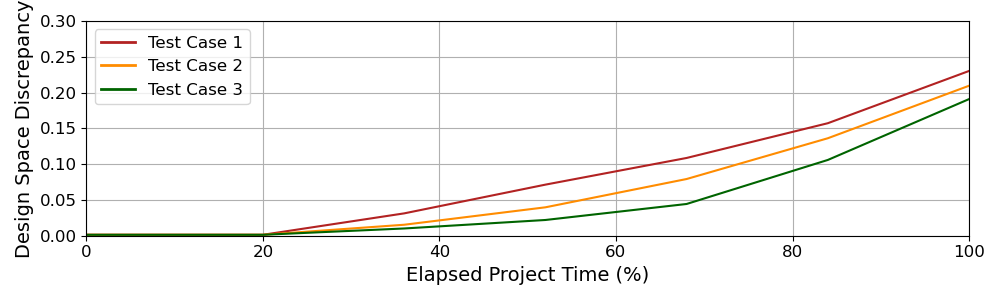
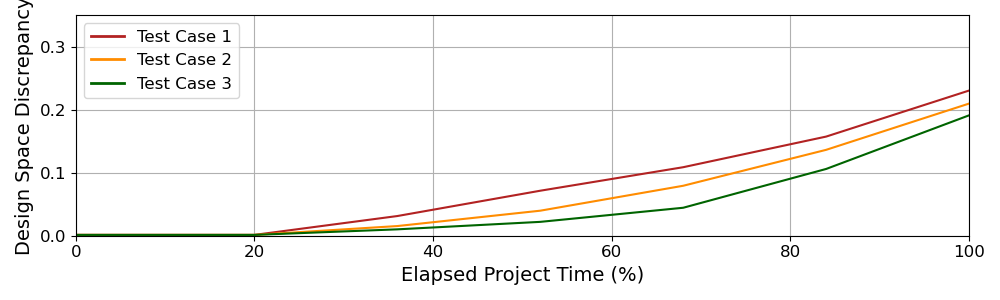
Final Results Gathered

diff --git a/Python Code/Simulation_Results_050_DTC1/plot_data.py b/Python Code/Simulation_Results_050_DTC1/plot_data.py
@@ -270,7 +270,7 @@ def plotDiversity(discipline_data, data_type, linestyle, colors, marker=None):
         
         # Set x- and y-axis limits
         plt.xlim([0, 100])
-        plt.ylim([0, 0.3])
+        plt.ylim([0, 0.35])
         
         # Increase font size of the tick labels
         plt.tick_params(axis='both', which='major', labelsize=12)

diff --git a/Python Code/Simulation_Results_200_DTC1/plot_data.py b/Python Code/Simulation_Results_200_DTC1/plot_data.py
@@ -270,7 +270,7 @@ def plotDiversity(discipline_data, data_type, linestyle, colors, marker=None):
         
         # Set x- and y-axis limits
         plt.xlim([0, 100])
-        plt.ylim([0, 0.3])
+        plt.ylim([0, 0.35])
         
         # Increase font size of the tick labels
         plt.tick_params(axis='both', which='major', labelsize=12)
